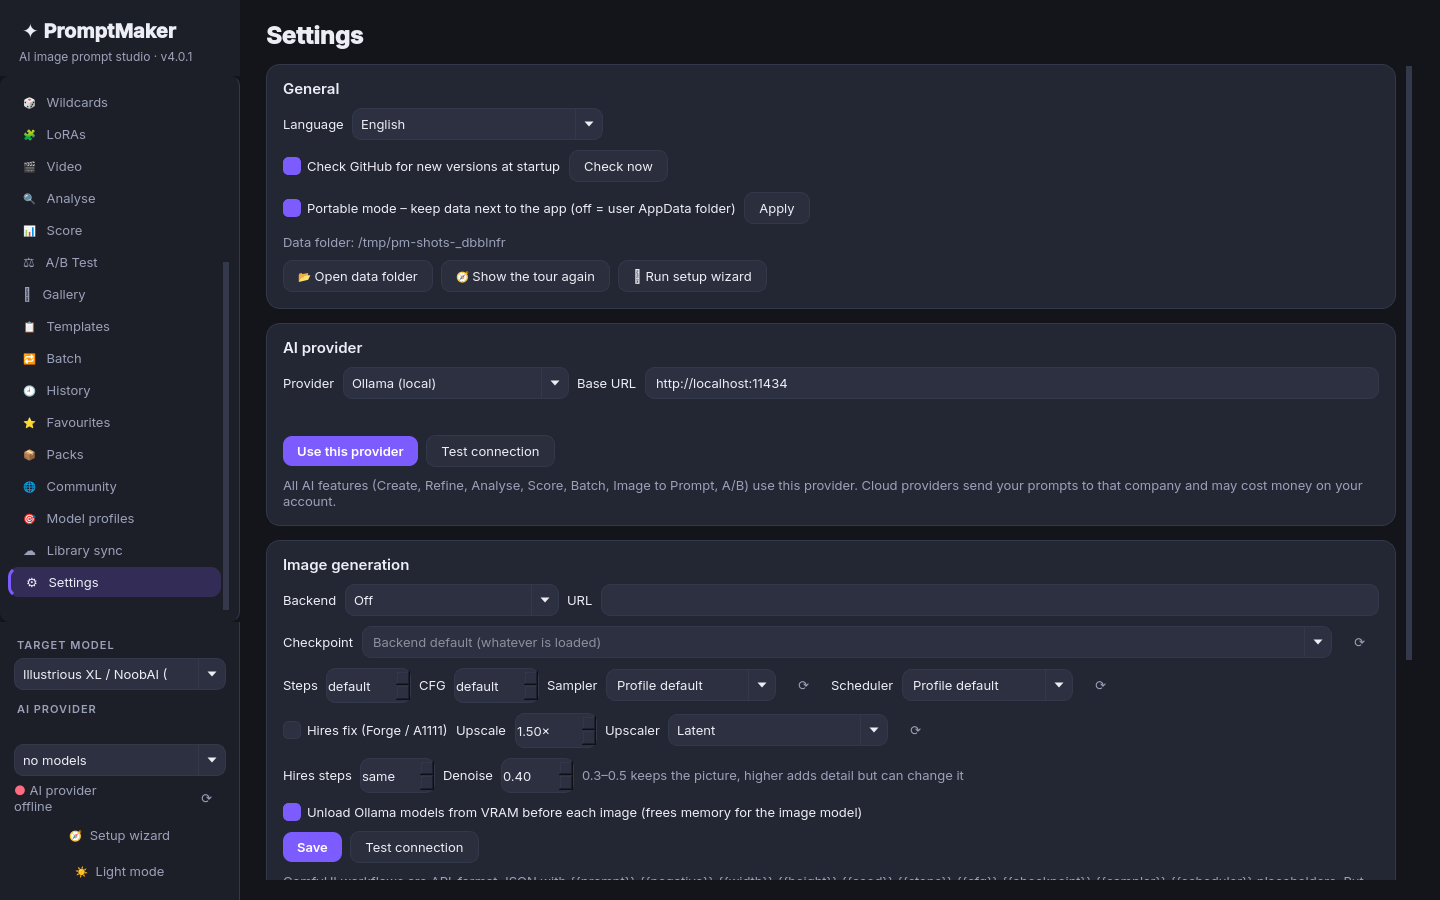
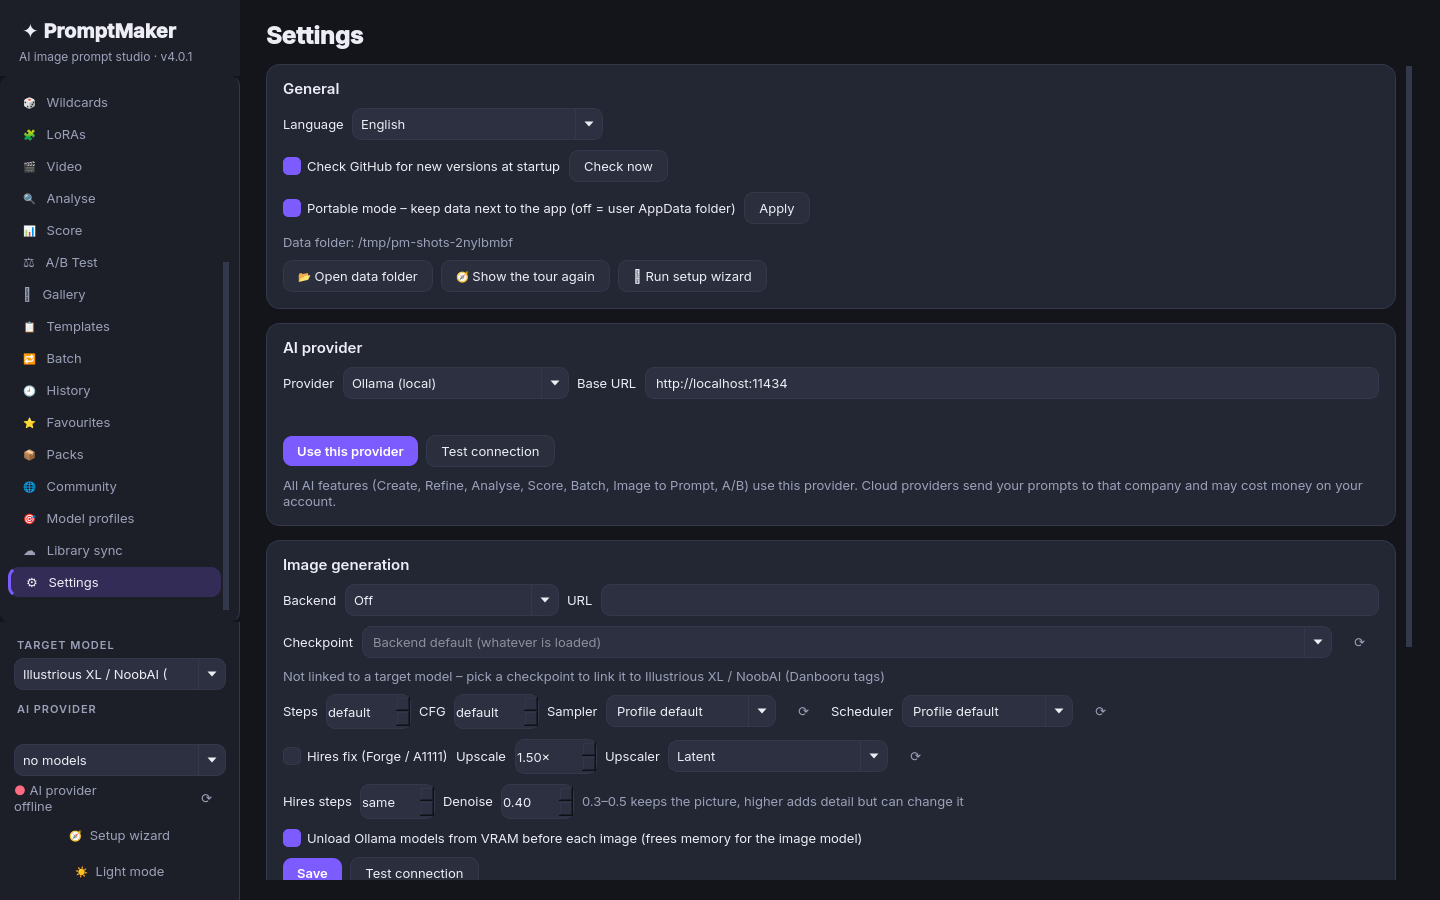
4.0.1: checkpoint follows the target model (per-profile links, Civitai auto-match, sync)

Changed region(s): [[0.1875, 0.7467, 0.6875, 0.9956], [0.3125, 0.2489, 0.3438, 0.28]]

diff --git a/promptmaker/app.py b/promptmaker/app.py
@@ -25,7 +25,7 @@ from .library import Library, PLACEHOLDERS, PackError
 from .storage import Store
 from .v3ui import V3Pages
 from .v4ui import V4Pages
-from .widgets import (CallWorker, Card, CheckpointCombo, ChatWorker, ConfirmButton, DropLabel, FlowLayout, GenQueue, ScoreBar, Toast, button, chip, hrow, label)
+from .widgets import (CallWorker, Card, CheckpointCombo, ChatWorker, ConfirmButton, DropLabel, strip_ckpt_hash, FlowLayout, GenQueue, ScoreBar, Toast, button, chip, hrow, label)
 
 APP_DIR = os.path.dirname(os.path.dirname(os.path.abspath(__file__)))
 NEGATIVE_PRESETS = {
@@ -207,6 +207,7 @@ class MainWindow(V4Pages, V3Pages, QMainWindow):
         if self.negpreset.currentText() == "Model default":
             self.negative.blockSignals(True); self._neg_preset("Model default"); self.negative.blockSignals(False)
         self.profile_tips.setText(" · ".join(p.get("tips", [])[:3]))
+        self.apply_profile_checkpoint()
         self.update_preview()
         self._create_profile_refresh()
         if hasattr(self, "score_in"):
@@ -2096,7 +2097,10 @@ class MainWindow(V4Pages, V3Pages, QMainWindow):
         self.img_steps.setValue(self.store.get("img_steps") or 0)
         self.img_cfg = QDoubleSpinBox(); self.img_cfg.setRange(0, 30); self.img_cfg.setSingleStep(0.5); self.img_cfg.setSpecialValueText("default")
         self.img_cfg.setValue(self.store.get("img_cfg") or 0)
+        self.ckpt_link_lbl = label("", "hint")
+        self.ckpt_link_lbl.setToolTip(tr("Each target model remembers the checkpoint you pick. Choose 'Backend default' (clear the box) to unlink."))
         im.add(hrow(label("Checkpoint"), self.img_ckpt, button("⟳", self._img_ckpts, "ghost", "Reload checkpoint list")))
+        im.add(self.ckpt_link_lbl)
         self.img_sampler = self._pick_combo("img_sampler"); self.img_scheduler = self._pick_combo("img_scheduler")
         im.add(hrow(label("Steps"), self.img_steps, label("CFG"), self.img_cfg, label("Sampler"), self.img_sampler,
                     button("⟳", lambda: self._load_picks("samplers", self.img_sampler), "ghost", "Load samplers from the backend"),
@@ -2274,6 +2278,7 @@ class MainWindow(V4Pages, V3Pages, QMainWindow):
             self.store.set(f"img_url:{kind}", self.img_url.text().strip())
         self.store.set("img_workflow", self.img_wf.currentText())
         self.store.set(f"img_checkpoint:{self.img_wf.currentText() if kind == 'comfyui' else 'a1111'}", self.img_ckpt.name())
+        self.link_profile_checkpoint(self.img_ckpt.name())
         self.store.set("img_steps", self.img_steps.value() or None); self.store.set("img_cfg", self.img_cfg.value() or None)
         self.store.set("hr_on", self.hr_on.isChecked()); self.store.set("hr_scale", self.hr_scale.value())
         self.store.set("hr_denoise", self.hr_denoise.value()); self.store.set("hr_steps", self.hr_steps.value())
@@ -2354,6 +2359,8 @@ class MainWindow(V4Pages, V3Pages, QMainWindow):
         """Store the checkpoint and mirror it into every other picker using the same key."""
         key = key or self.ckpt_key()
         self.store.set(f"img_checkpoint:{key}", name)
+        if source is not None and not getattr(self, "_applying_profile_ckpt", False):
+            self.link_profile_checkpoint(name)
         if key != self.ckpt_key():
             return
         for c in self._ckpt_combos_list():
@@ -2364,6 +2371,53 @@ class MainWindow(V4Pages, V3Pages, QMainWindow):
             if c.name() != name:
                 c.set_name(name)
 
+    # ------------------------------------------------- target model <-> checkpoint link (4.0.1)
+    def profile_checkpoints(self):
+        return dict(self.store.get("profile_checkpoints") or {})
+
+    def link_profile_checkpoint(self, name, pid=None):
+        """Remember `name` for the target model; an empty name (Backend default) unlinks it."""
+        pid = pid or self.profile.get("id")
+        m = self.profile_checkpoints()
+        if name:
+            m[pid] = name
+        else:
+            m.pop(pid, None)
+        self.store.set("profile_checkpoints", m)
+        self._update_ckpt_link_label()
+
+    def _update_ckpt_link_label(self):
+        lbl = getattr(self, "ckpt_link_lbl", None)
+        if lbl is None:
+            return
+        name = self.profile_checkpoints().get(self.profile.get("id"))
+        lbl.setText(tr("Linked to") + f": {self.profile.get('name')}" if name else
+                    tr("Not linked to a target model – pick a checkpoint to link it to") + f" {self.profile.get('name')}")
+
+    def apply_profile_checkpoint(self):
+        """Target model changed: use its linked checkpoint, else a confident unique auto-match, else leave it."""
+        if not hasattr(self, "img_ckpt"):
+            return None
+        name = self.profile_checkpoints().get(self.profile.get("id"))
+        if not name:
+            names = getattr(self, "_ckpt_names", None)
+            if names is None and (self.profile.get("civitai") and not os.environ.get("PROMPTMAKER_NO_NET")
+                                  and self.store.get("img_backend", "none") != "none"):
+                self._ckpt_match_pending = True; self.load_checkpoints()  # background; re-runs when the list arrives
+            from . import ckptmatch
+            name = ckptmatch.match(self.profile, names or [])
+            name = name and strip_ckpt_hash(name)
+        if name and name != self.store.get(f"img_checkpoint:{self.ckpt_key()}", ""):
+            self._applying_profile_ckpt = True
+            try:
+                self.set_checkpoint(name)
+                if self._settings_ckpt_key() == self.ckpt_key() and self.img_ckpt.name() != name:
+                    self.img_ckpt.set_name(name)
+            finally:
+                self._applying_profile_ckpt = False
+        self._update_ckpt_link_label()
+        return name
+
     def load_checkpoints(self, backend=None, combos=None):
         """Ask the backend for its checkpoints (in a worker) and fill the pickers."""
         backend = backend or self.image_backend()
@@ -2373,8 +2427,11 @@ class MainWindow(V4Pages, V3Pages, QMainWindow):
         wk = CallWorker(backend.checkpoints)
         def ok(lst):
             self._ckpt_loading = False
+            self._ckpt_names = list(lst or [])
             for c in combos or self._ckpt_combos_list():
                 c.set_items(lst or [])
+            if getattr(self, "_ckpt_match_pending", False):
+                self._ckpt_match_pending = False; self.apply_profile_checkpoint()
         def failed(_e):
             self._ckpt_loading = False
         wk.ok.connect(ok); wk.failed.connect(failed); self._keep(wk); wk.start()

diff --git a/tests/test_profile_ckpt.py b/tests/test_profile_ckpt.py
@@ -1,0 +1,75 @@
+import json
+
+from promptmaker import ckptmatch, sync, wildcards
+from promptmaker.storage import Store
+from test_v4 import win  # noqa: F401  (fixture)
+
+NOVA = {"id": "civitai_1", "name": "Nova Cross AM v3.0 (Civitai)",
+        "civitai": {"model_name": "Nova Cross AM", "version_name": "v3.0"}}
+CKS = ["novaCrossAM_v30.safetensors [abc123ff]", "lustifySDXL_v7.safetensors", "anima-preview.safetensors"]
+
+
+def test_match_positive():
+    assert ckptmatch.match(NOVA, CKS) == CKS[0]
+    p = dict(NOVA, civitai=dict(NOVA["civitai"], file_name="novaCrossAM_v30.safetensors"))
+    assert ckptmatch.match(p, ["sub/novaCrossAM_v30.safetensors", "x.safetensors"]) == "sub/novaCrossAM_v30.safetensors"
+    assert ckptmatch.match(NOVA, ["Nova-Cross-AM-v3.0.safetensors"]) == "Nova-Cross-AM-v3.0.safetensors"
+
+
+def test_match_negative():
+    assert ckptmatch.match(NOVA, ["novaCrossAM_v20.safetensors", "novaCrossAM_v10.safetensors"]) is None  # ambiguous
+    assert ckptmatch.match(NOVA, ["lustifySDXL.safetensors"]) is None
+    assert ckptmatch.match({"id": "illustrious", "name": "Illustrious XL"}, ["illustriousXL.safetensors"]) is None
+    assert ckptmatch.match(NOVA, []) is None
+
+
+def _profiles(win):
+    ids = list(win.profiles)
+    return ids[0], ids[1]
+
+
+def _select(win, pid):
+    win.profile_combo.setCurrentIndex(win.profile_combo.findData(pid))
+
+
+def test_mapping_set_restore_and_clear(win):
+    a, b = _profiles(win)
+    _select(win, a)
+    win.img_ckpt.setCurrentText("alpha.safetensors")  # user picks -> linked to a
+    assert win.store.get("profile_checkpoints")[a] == "alpha.safetensors"
+    assert "Linked to" in win.ckpt_link_lbl.text()
+    _select(win, b)
+    win.img_ckpt.setCurrentText("beta.safetensors")
+    _select(win, a)
+    assert win.store.get("img_checkpoint:a1111") == "alpha.safetensors" and win.img_ckpt.name() == "alpha.safetensors"
+    assert all(c.name() == "alpha.safetensors" for c in win._ckpt_combos_list())
+    _select(win, b)
+    assert win.img_ckpt.name() == "beta.safetensors"
+    win.img_ckpt.setCurrentText("")  # Backend default -> unlink
+    assert b not in win.store.get("profile_checkpoints")
+    _select(win, a); _select(win, b)
+    assert win.img_ckpt.name() == "alpha.safetensors"  # no link: left unchanged
+
+
+def test_auto_match_on_profile_change(win):
+    win.profiles["civitai_1"] = dict(win.profiles[_profiles(win)[0]], **NOVA)
+    win.profile_combo.addItem(NOVA["name"], "civitai_1")
+    win._ckpt_names = list(CKS)
+    win.set_checkpoint("lustifySDXL_v7.safetensors")
+    _select(win, "civitai_1")
+    assert win.store.get("img_checkpoint:a1111") == "novaCrossAM_v30.safetensors"
+    assert "civitai_1" not in (win.store.get("profile_checkpoints") or {})  # auto-match isn't saved as a link
+    win._ckpt_names = ["novaCrossAM_v20.safetensors", "novaCrossAM_v10.safetensors"]
+    win.set_checkpoint("lustifySDXL_v7.safetensors")
+    _select(win, _profiles(win)[0]); _select(win, "civitai_1")
+    assert win.store.get("img_checkpoint:a1111") == "lustifySDXL_v7.safetensors"
+
+
+def test_mapping_in_sync(tmp_path):
+    st = Store(str(tmp_path / "a.db")); st.set("profile_checkpoints", {"civitai_1": "nova.safetensors"})
+    lib = wildcards.WildcardLib(str(tmp_path / "wc"))
+    b = json.loads(json.dumps(sync.build(st, lib)))
+    assert b["settings"]["profile_checkpoints"] == {"civitai_1": "nova.safetensors"}
+    dst = Store(str(tmp_path / "b.db"))
+    sync.apply(dst, b, wildcard_lib=wildcards.WildcardLib(str(tmp_path / "wc2")))
+    assert dst.get("profile_checkpoints") == {"civitai_1": "nova.safetensors"}

diff --git a/promptmaker/ckptmatch.py b/promptmaker/ckptmatch.py
@@ -1,0 +1,58 @@
+"""Match a target-model profile to one of the backend's checkpoints (4.0.1).
+
+Only Civitai-imported profiles are auto-matched (built-in profiles like "Illustrious XL" are families, not files).
+Returns a checkpoint only on a confident, unique match; otherwise None.
+"""
+import difflib
+import os
+import re
+
+
+def strip_hash(name):
+    return re.sub(r"\s*\[[0-9a-fA-F]{6,}\]\s*$", "", (name or "").strip())
+
+
+def norm(text):
+    text = strip_hash(text or "")
+    text = os.path.basename(text.replace("\\", "/"))
+    text = re.sub(r"\.(safetensors|ckpt|pt|pth|gguf|bin)$", "", text, flags=re.I)
+    text = re.sub(r"\(civitai\)", "", text, flags=re.I)
+    return re.sub(r"[^a-z0-9]", "", text.lower())
+
+
+def _digits(s):
+    return re.sub(r"[^0-9]", "", s)  # never fuzzy-match across versions (v20 vs v30)
+
+
+def queries(profile):
+    c = profile.get("civitai") or {}
+    if not c:
+        return [], []
+    files = [c["file_name"]] if c.get("file_name") else []
+    names = []
+    full = f"{c.get('model_name') or ''} {c.get('version_name') or ''}".strip()
+    for n in (full, profile.get("name", ""), c.get("model_name") or ""):
+        if norm(n) and len(norm(n)) >= 5 and norm(n) not in names:
+            names.append(norm(n))
+    return [norm(f) for f in files if norm(f)], names
+
+
+def match(profile, checkpoints, threshold=0.88):
+    files, names = queries(profile)
+    cks = [(c, norm(c)) for c in checkpoints or [] if norm(c)]
+    if not cks or not (files or names):
+        return None
+    for f in files:  # 1. exact file name
+        hits = [c for c, n in cks if n == f]
+        if len(hits) == 1:
+            return hits[0]
+    for q in names:  # 2. exact normalised name, 3. containment, 4. high similarity — each must be unique
+        for test in (lambda n: n == q,
+                     lambda n: (q in n or n in q) and min(len(n), len(q)) >= 5,
+                     lambda n: _digits(n) == _digits(q) and difflib.SequenceMatcher(None, q, n).ratio() >= threshold):
+            hits = [c for c, n in cks if test(n)]
+            if len(hits) == 1:
+                return hits[0]
+            if len(hits) > 1:
+                break  # ambiguous at this level: try the next (more specific earlier) query, never guess
+    return None

diff --git a/promptmaker/civitai.py b/promptmaker/civitai.py
@@ -368,7 +368,10 @@ def build_profile(info, s, base_id, profiles_by_id, pid=None):
         "sources": [info["url"]] + [x for x in base.get("sources", []) if x != info["url"]][:2],
         "gen": gen,
         "civitai": {"model_id": m.get("id") or v.get("modelId"), "version_id": v["id"], "version_name": v.get("name"),
-                    "model_name": m.get("name"), "type": m.get("type"), "base_model": v.get("baseModel"),
+                    "model_name": m.get("name"), "type": m.get("type"),
+                    "file_name": next((fl.get("name") for fl in (v.get("files") or [])
+                                       if isinstance(fl, dict) and fl.get("primary")), None)
+                    or next((fl.get("name") for fl in (v.get("files") or []) if isinstance(fl, dict)), None), "base_model": v.get("baseModel"),
                     "trained_words": s.get("trained_words") or [], "url": info["url"],
                     "fetched": time.strftime("%Y-%m-%d"), "positive_source": s.get("positive_source"),
                     "negative_source": s.get("negative_source")},

diff --git a/README.md b/README.md
@@ -139,6 +139,8 @@ PromptMaker doesn't include an image model. It sends prompts to a backend you al
 
 **Wildcards when generating.** `__name__` and `{a|b}` in any prompt you generate are expanded with the image's seed before it's sent, so Forge and ComfyUI don't need the Dynamic Prompts extension. Turn this off on the Wildcards page if you'd rather let the extension do it. A lone `{tag}` without `|` is left alone.
 
+**Checkpoint follows the target model** *(4.0.1)*. Whatever checkpoint you pick (in Settings, Pose, Auto-refine or Inpaint & Regions) is remembered for the current **Target model**, and switching target model switches the checkpoint in every picker. Settings shows *Linked to: <profile>*; clear the box (**Backend default**) to unlink. With no link, Civitai-imported profiles are matched automatically against your backend's checkpoint list (file name, then name, e.g. *Nova Cross AM v3.0* → `novaCrossAM_v30.safetensors`), but only when exactly one checkpoint fits; otherwise the current one is kept. Links are stored in settings and travel with Library sync.
+
 **Sampler and scheduler** *(4.0.1)*. Settings → Image generation has **Sampler** and **Scheduler** pickers next to Steps/CFG. Press ⟳ to load the lists from Forge/A1111 (`/sdapi/v1/samplers`, `/sdapi/v1/schedulers`) or ComfyUI (`KSampler`'s options), or type a name. **Profile default** keeps the model profile's own choice; anything else overrides it for every page. Forge gets the separate `scheduler` field; ComfyUI workflows get `{{sampler}}` / `{{scheduler}}`.
 
 **Hires fix (Forge/A1111).** Tick **Hires fix** in Settings → Image generation and press **Save**. PromptMaker sends `enable_hr` with your scale, upscaler, hires steps and denoise (0.3–0.5 keeps the picture; 1.5× Latent with denoise 0.4 is a good start), and tells Forge Neo to reuse the same VAE and text encoders for the second pass.

diff --git a/CHANGELOG.md b/CHANGELOG.md
@@ -5,6 +5,7 @@ All notable changes to this project are documented here. The format follows [Kee
 ## [4.0.1] - 2026-10-29
 
 ### Added
+- The image checkpoint now follows the **Target model**: the checkpoint you pick in any picker is remembered per target model (`profile_checkpoints` setting, included in Library sync) and restored when you switch. Civitai-imported profiles without a link are auto-matched to a backend checkpoint by file name or normalised name, only when the match is unique. Settings shows "Linked to: …"; choosing Backend default unlinks.
 - **Sampler** and **Scheduler** pickers in Settings → Image generation, with ⟳ to load the lists from Forge/A1111 or ComfyUI (built-in scheduler list as a fallback). "Profile default" keeps the profile's choice; anything else overrides it on every page. Forge/A1111 payloads now include `scheduler`.
 
 ### Fixed
